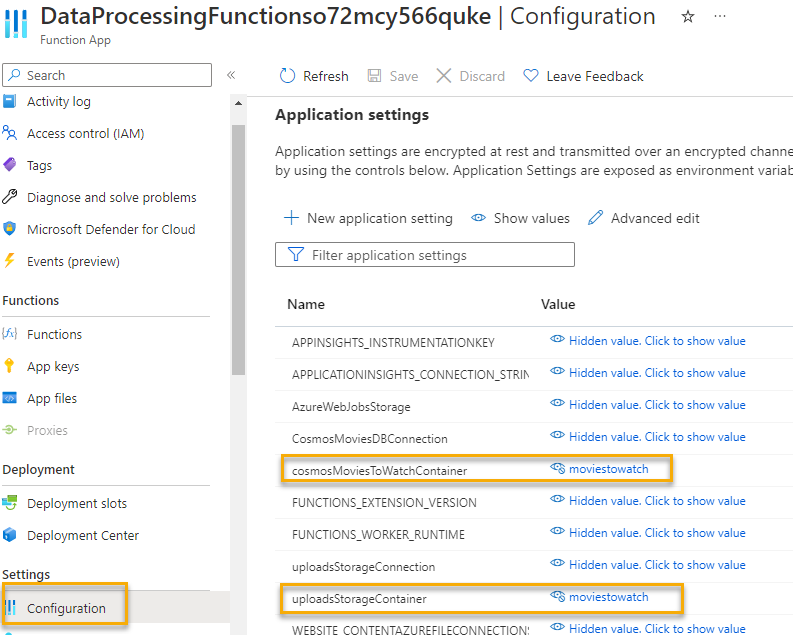
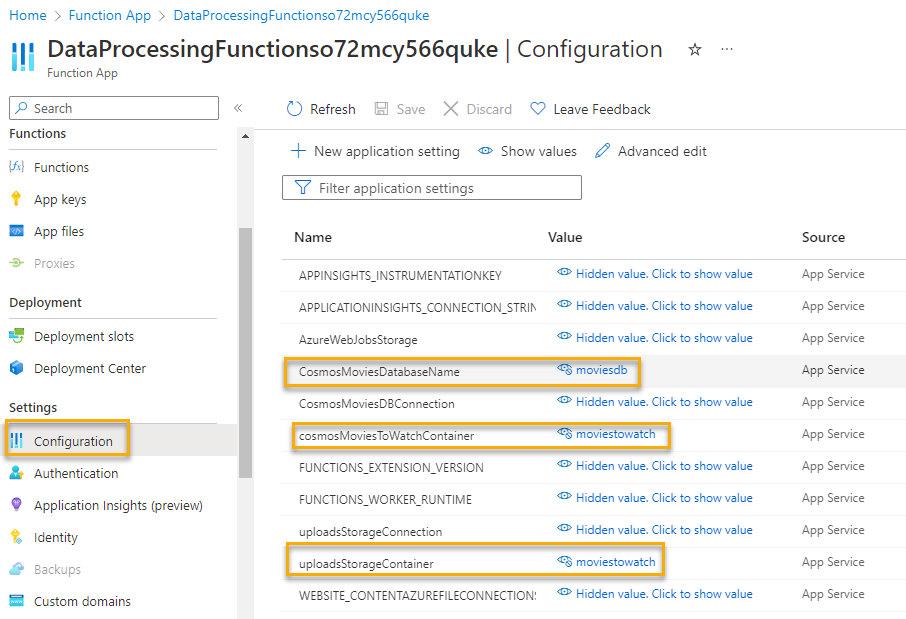
rounding the corner towards home

diff --git a/FunctionAppSolution/DataProcessingFunctions/BlobStorage/BlobStorageInterop.cs b/FunctionAppSolution/DataProcessingFunctions/BlobStorage/BlobStorageInterop.cs
@@ -1,0 +1,44 @@
+using Azure.Storage.Blobs;
+using System;
+using System.Collections.Generic;
+using System.IO;
+using System.Linq;
+using System.Text;
+using System.Threading.Tasks;
+
+namespace DataProcessingFunctions.BlobStorage
+{
+    public class BlobStorageInterop
+    {
+        private readonly BlobServiceClient _blobServiceClient;
+
+        public BlobStorageInterop(string connectionString)
+        {
+            //create account client
+            _blobServiceClient = new BlobServiceClient(connectionString);
+        }
+
+        public byte[] GetBlob(string containerName, string blobName)
+        {
+            //get the specific container into a client
+            var containerClient = _blobServiceClient.GetBlobContainerClient(containerName);
+            if (containerClient == null)
+            {
+                throw new Exception($"Container {containerName} not found!");
+            }
+
+            var fileToProcess = containerClient.GetBlobClient(blobName);
+
+            if (fileToProcess == null || !fileToProcess.Exists())
+            {
+                throw new Exception($"Blob {blobName} not found in container {containerName}");
+            }
+
+            using (var ms = new MemoryStream())
+            {
+                fileToProcess.DownloadTo(ms);
+                return ms.ToArray();
+            }
+        }
+    }
+}

diff --git a/FunctionAppSolution/DataProcessingFunctions/CosmosDB/CosmosDBInterop.cs b/FunctionAppSolution/DataProcessingFunctions/CosmosDB/CosmosDBInterop.cs
@@ -1,0 +1,31 @@
+using Azure.Storage.Blobs;
+using Microsoft.Azure.Cosmos;
+using System;
+using System.Collections.Generic;
+using System.Linq;
+using System.Text;
+using System.Threading.Tasks;
+
+namespace DataProcessingFunctions.CosmosDB
+{
+    public class CosmosDBInterop
+    {
+        private readonly string _connectionString;
+        public CosmosDBInterop(string cnstr) { 
+            _connectionString = cnstr;
+        }
+
+        public async Task<bool> UpsertMovie(string dbName, string containerName, MovieToWatch m)
+        {
+            using (CosmosClient client = new CosmosClient(_connectionString))
+            {
+                var db = client.GetDatabase(dbName);
+                var container = db.GetContainer(containerName);
+
+                var movieDoc = await container.UpsertItemAsync(m);
+
+                return movieDoc != null;
+            }
+        }
+    }
+}

diff --git a/FunctionAppSolution/DataProcessingFunctions/MovieToWatch.cs b/FunctionAppSolution/DataProcessingFunctions/MovieToWatch.cs
@@ -1,0 +1,18 @@
+using System;
+using System.Collections.Generic;
+using System.Linq;
+using System.Text;
+using System.Threading.Tasks;
+
+namespace DataProcessingFunctions
+{
+    public class MovieToWatch
+    {
+        public string id { get; set; } = Guid.NewGuid().ToString();
+        public int MovieId { get; set; }
+        public string Title { get; set; }
+        public string Rating { get; set; }
+        public string Review { get; set; }
+        public int Year { get; set; }
+    }
+}

diff --git a/FunctionAppStarter/DataProcessingFunctions/MovieToWatch.cs b/FunctionAppStarter/DataProcessingFunctions/MovieToWatch.cs
@@ -1,0 +1,18 @@
+using System;
+using System.Collections.Generic;
+using System.Linq;
+using System.Text;
+using System.Threading.Tasks;
+
+namespace DataProcessingFunctions
+{
+    public class MovieToWatch
+    {
+        public string id { get; set; } = Guid.NewGuid().ToString();
+        public int MovieId { get; set; }
+        public string Title { get; set; }
+        public string Rating { get; set; }
+        public string Review { get; set; }
+        public int Year { get; set; }
+    }
+}

diff --git a/walkthroughs/05-RecreatingTheSameSolutionWithSDKCode.md b/walkthroughs/05-RecreatingTheSameSolutionWithSDKCode.md
@@ -160,6 +160,8 @@ The connection string for the Storage Account should already be available via th
     var fileToParse = GetFileToParse(url, log);
     ```  
 
+    >**Reminder:** If you are uncertain about the code as per above, review the solution files in the repository.
+
 1. Parse the file.
 
     The code to parse the file is already in place.  Make a call similar to the way the bindings function called to the parsefile to parse the byte[] and create a list of movie objects:
@@ -181,12 +183,87 @@ The connection string for the Storage Account should already be available via th
 
     The movies list will then be able to be processed into the Cosmos DB database.
 
-1. Get the parsed data into Comsos DB
+1. Add the Cosmos DB Interop
 
-    For this next code, you'll put the code into Cosmos DB.  Start by creating a method to upsert each movie into the correct container:
+    Create a folder called `CosmosDB` and add a file `CosmosDBInterop.cs` to it.
+
+    Add the following code for the interop:
 
     ```cs
+    using Azure.Storage.Blobs;
+    using Microsoft.Azure.Cosmos;
+    using System;
+    using System.Collections.Generic;
+    using System.Linq;
+    using System.Text;
+    using System.Threading.Tasks;
 
+    namespace DataProcessingFunctions.CosmosDB
+    {
+        public class CosmosDBInterop
+        {
+            private readonly string _connectionString;
+            public CosmosDBInterop(string cnstr) { 
+                _connectionString = cnstr;
+            }
+
+            public async Task<bool> UpsertMovie(string dbName, string containerName, MovieToWatch m)
+            {
+                using (CosmosClient client = new CosmosClient(_connectionString))
+                {
+                    var db = client.GetDatabase(dbName);
+                    var container = db.GetContainer(containerName);
+
+                    var movieDoc = await container.UpsertItemAsync(m);
+
+                    return movieDoc != null;
+                }
+            }
+        }
+    }
+    ```  
+
+    Note that this is very simple code and not at all complete.  One thing you would want to do is ensure you aren't just upserting new items because if the item exists by title you would get the document and use it's id, not the new Guid.  For this training, just getting the initial upsert working is considered a success.
+
+1. Get the parsed data into Comsos DB
+
+    For this next code, you'll put the movie into Cosmos DB.  Start by creating a method to upsert each movie into the correct container.  In this method, note that a new object called `MovieToWatch` is used, because you must pass a string `id` to the cosmos db on create/upsert:
+
+    ```cs
+    /// <summary>
+    /// Process Movies to watch
+    /// </summary>
+    /// <param name="movies">The movies to upsert into Cosmos</param>
+    /// <param name="log">The Logger object</param>
+    private static async Task ProcessMoviesToWatch(List<Movie> movies, ILogger log) 
+    {
+        var cnstr = Environment.GetEnvironmentVariable("CosmosMoviesDBConnection");
+        var cdi = new CosmosDBInterop(cnstr);
+
+        //database
+        var dbName = Environment.GetEnvironmentVariable("CosmosMoviesDatabaseName");
+
+        //cosmosMoviesToWatchContainer
+        var containerName = Environment.GetEnvironmentVariable("cosmosMoviesToWatchContainer");
+
+        foreach (var m in movies) 
+        {
+            var movieToWatch = new MovieToWatch()
+            {
+                MovieId = m.Id,
+                Rating = m.Rating,
+                Review = m.Review,
+                Title = m.Title,
+                Year = m.Year,
+                id = Guid.NewGuid().ToString()
+            };
+            var success = await cdi.UpsertMovie(dbName, containerName, movieToWatch);
+            string message = success ? $"Movie {m.Title} was upserted into CosmosDB {dbName}.{containerName}"
+                                        : $"Movie {m.Title} could not be added to the database";
+
+            log.LogInformation(message);
+        }
+    }
     ```
 
     Finish this operation by making a call to the method to process all the movies
@@ -196,11 +273,90 @@ The connection string for the Storage Account should already be available via th
     ProcessMoviesToWatch(moviesToWatch, log);
     ```  
 
+    >**Reminder:** If you are uncertain about the code as per above, review the solution files in the repository.
+
 1. Add the missing container information to the function app
 
     In the code above, two settings were leveraged, and they need to be added to the function app
 
     - `uploadsStorageContainer`: The name of the storage container where you are uploading files (i.e. `moviestowatch`)
+    - `cosmosMoviesDatabaseName`: The name of the database that will be storing the data (i.e. `moviesdb`)
     - `cosmosMoviesToWatchContainer`: The name of the container in cosmos db where you want to push data (i.e. `moviestowatch`)
+    
+    !["Make sure to add the configuration settings"](./images/Walkthrough05/image0001x-configurationsettings.png)
+  
+## Publish and Test 
 
-    !["Make sure to add the configuration settings"](./images/Walkthrough05/image0001x-configurationsettings.png)  
+This is probably a good time to publish the code and test to make sure everything is working before wiring up the automation.
+
+1. Publish the code changes to the Azure Function App
+
+    Right-click and publish or use your CI/CD to publish the function app into your Azure Function App.
+
+1. Open the storage account and upload the sample file for movies to watch.
+
+    The file is included with the solution and in the Resources folder in the root of the repository.
+
+    >**Note:** For simplicity, this is the same structure and file as for the watched movies.  Of course in the real world you can have different files and objects, with different fields.  You would just need to refactor the processor to handle the fields appropriately.
+    
+1. Once the file is uploaded, get the URL for the blob
+
+    You can get the URL even though you can't access it.  Just open the blob in the portal and copy the URL.
+    
+    !["The storage account with the container for movies to watch and the upload is shown, with the cursor on the copy link"](./images/Walkthrough05/image0002-gettingtheurloftheupload.png) 
+
+    The url should be something like (but not exactly like) this:
+
+    ```text
+    https://fileuploadso72mcy566quke.blob.core.windows.net/moviestowatch/MoviesToWatch.xlsx
+    ```  
+
+    >**Reminder:** That is an example, your link will definitely be a bit different, at least in the account name.
+
+1. Open the function to Code/Test in the portal
+
+    Navigate to the function and open the Code/Test blade, select `Test/Run`, then enter the JSON in the body to send the url:
+
+    ```json
+    {
+        "url":"https://fileuploadso72mcy566quke.blob.core.windows.net/moviestowatch/MoviesToWatch.xlsx"
+    }
+    ```  
+
+    >**Note:** use your url of course
+
+    !["Testing the function from the portal"](./images/Walkthrough05/image0003-testingandrunningthefunction.png)  
+
+    Validate that the output shows success:
+
+    !["Monitor logs show the output as successful"](./images/Walkthrough05/image0004-processingfortestingwascompleted.png)  
+
+    Validate that the data is in the Cosmos DB
+
+    !["The data is in the cosmos db table as expected"](./images/Walkthrough05/image0005-dataisinplace.png)  
+
+1. Once the working code is validated, you won't need to make any further changes to the Azure Function App.
+
+    You can close the code at this point as everything else will be done in Azure.  
+
+## Wire up the automation for Event and Processing
+
+Now that the project is ready to respond with a Function App that has been tested and proven to be able to manually interact with blob storage and the cosmos DB, you are ready to create a trigger and post event.
+
+There are a number of ways you can do this.  For learning purposes, the approach here will be to utilize a logic app to respond to the event and then create a POST with the body holding the blob storage URL.
+
+### Create an Event that Triggers a Logic App
+
+To create the logic app, you'll need to have the storage account name and primary key available.  You'll also need to sign in and authorize the Event with your user id (there are other ways to authorize but this is the easiest by far).
+
+1. Create the Logic App based on a Storage Upload Created Event trigger.
+
+1. Change the logic app to get the data url
+
+1. Post to the azure function endpoint with the payload of the url 
+
+1. Drop a file and see that it is all working
+
+## Conclusion
+
+This wraps up the look at automating events for handling files that are dropped into Azure Storage and then parsing the file with an Azure Function and pushing the data into a Cosmos DB table.
